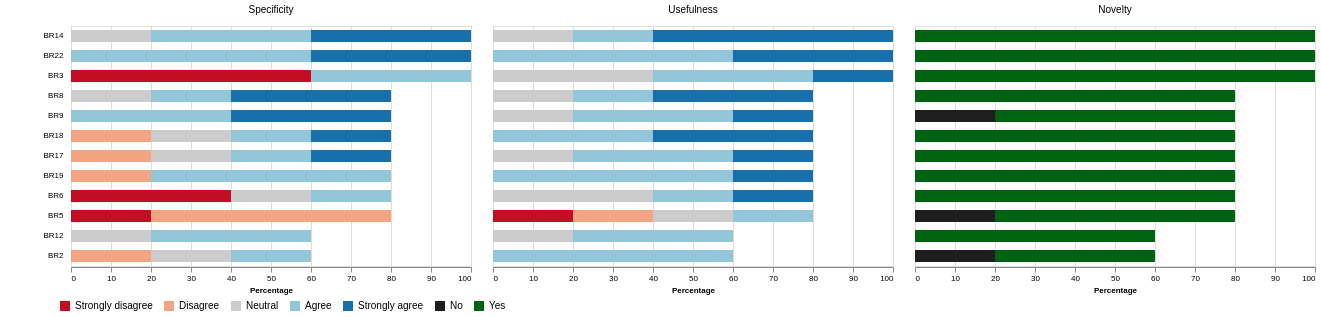
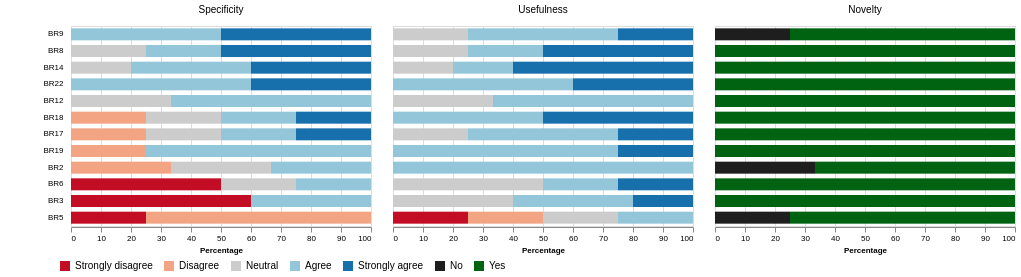
figures modified:

diff --git a/visualization/visualization_per_br.py b/visualization/visualization_per_br.py
@@ -34,7 +34,7 @@ def main(args):
         x=alt.X('percentage:Q', title='Percentage',
                 axis=alt.Axis(format='.0f')),
         y=alt.Y('id:N', axis=y_axis,
-                sort=["BR14", "BR22", "BR3", "BR8", "BR9", "BR18", "BR17", "BR19", "BR6", "BR5", "BR12", "BR2"]),
+                sort=["BR9", "BR8", "BR14", "BR22", "BR12", "BR18", "BR17", "BR19", "BR2", "BR6", "BR3", "BR5", ]),
         color=alt.Color(
             'type:N',
             legend=alt.Legend(orient='bottom', title='', padding=-12),
@@ -44,6 +44,9 @@ def main(args):
             'order',
             sort='ascending'
         ),
+    ).properties(
+        width=300,
+        height=200
     ).facet(
         column=alt.Column("quality:N", title=None, sort=["Specificity", "Usefulness", "Novelty"])
     )

diff --git a/visualization/visualization_novelty.py b/visualization/visualization_novelty.py
@@ -12,7 +12,7 @@ def main(args):
     df = pd.DataFrame({'Org': ['Novelty', 'Novelty'],
                        'response': ['Yes', 'No'],
                        'percent': [94.42, 5.58],
-                       'value': [5.88, 94.12],
+                       'value': [4, 60],
                        'position': [2.5, 8.5]})
 
     color_scale = alt.Scale(
